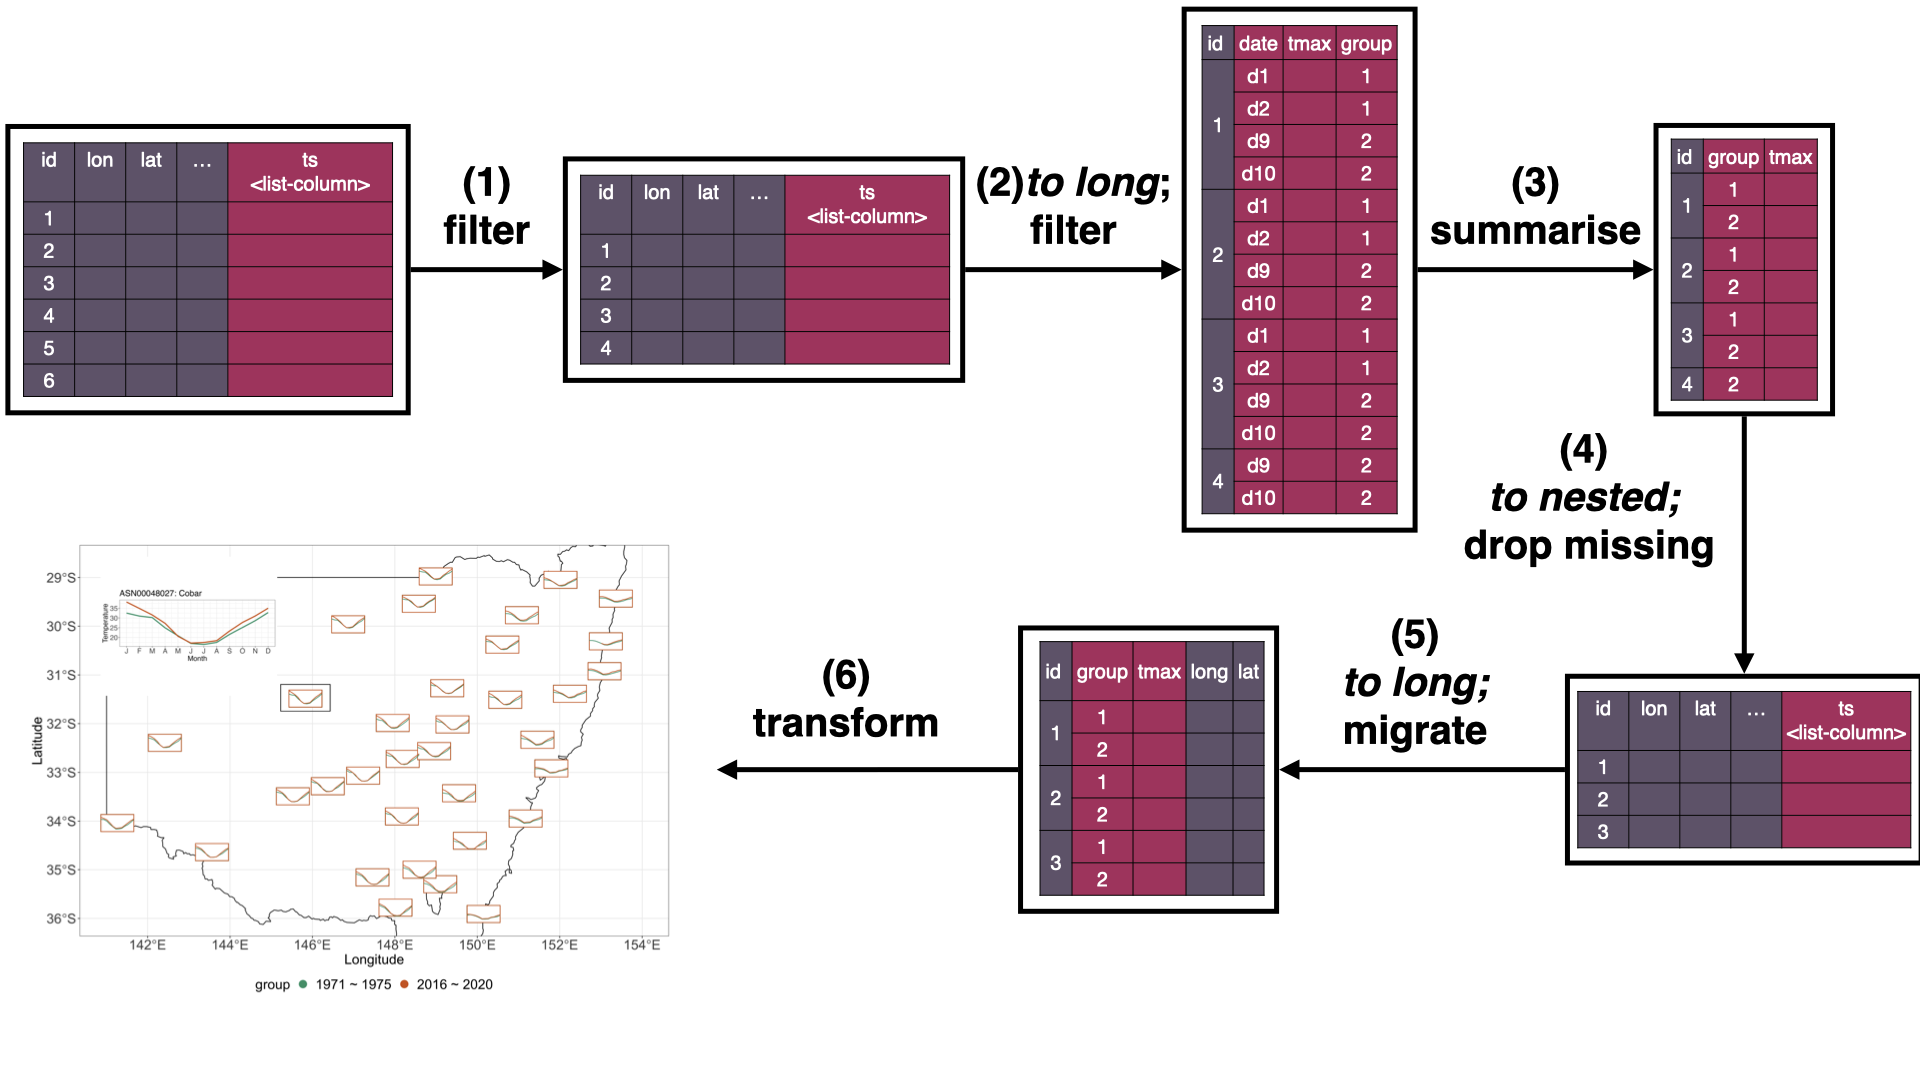
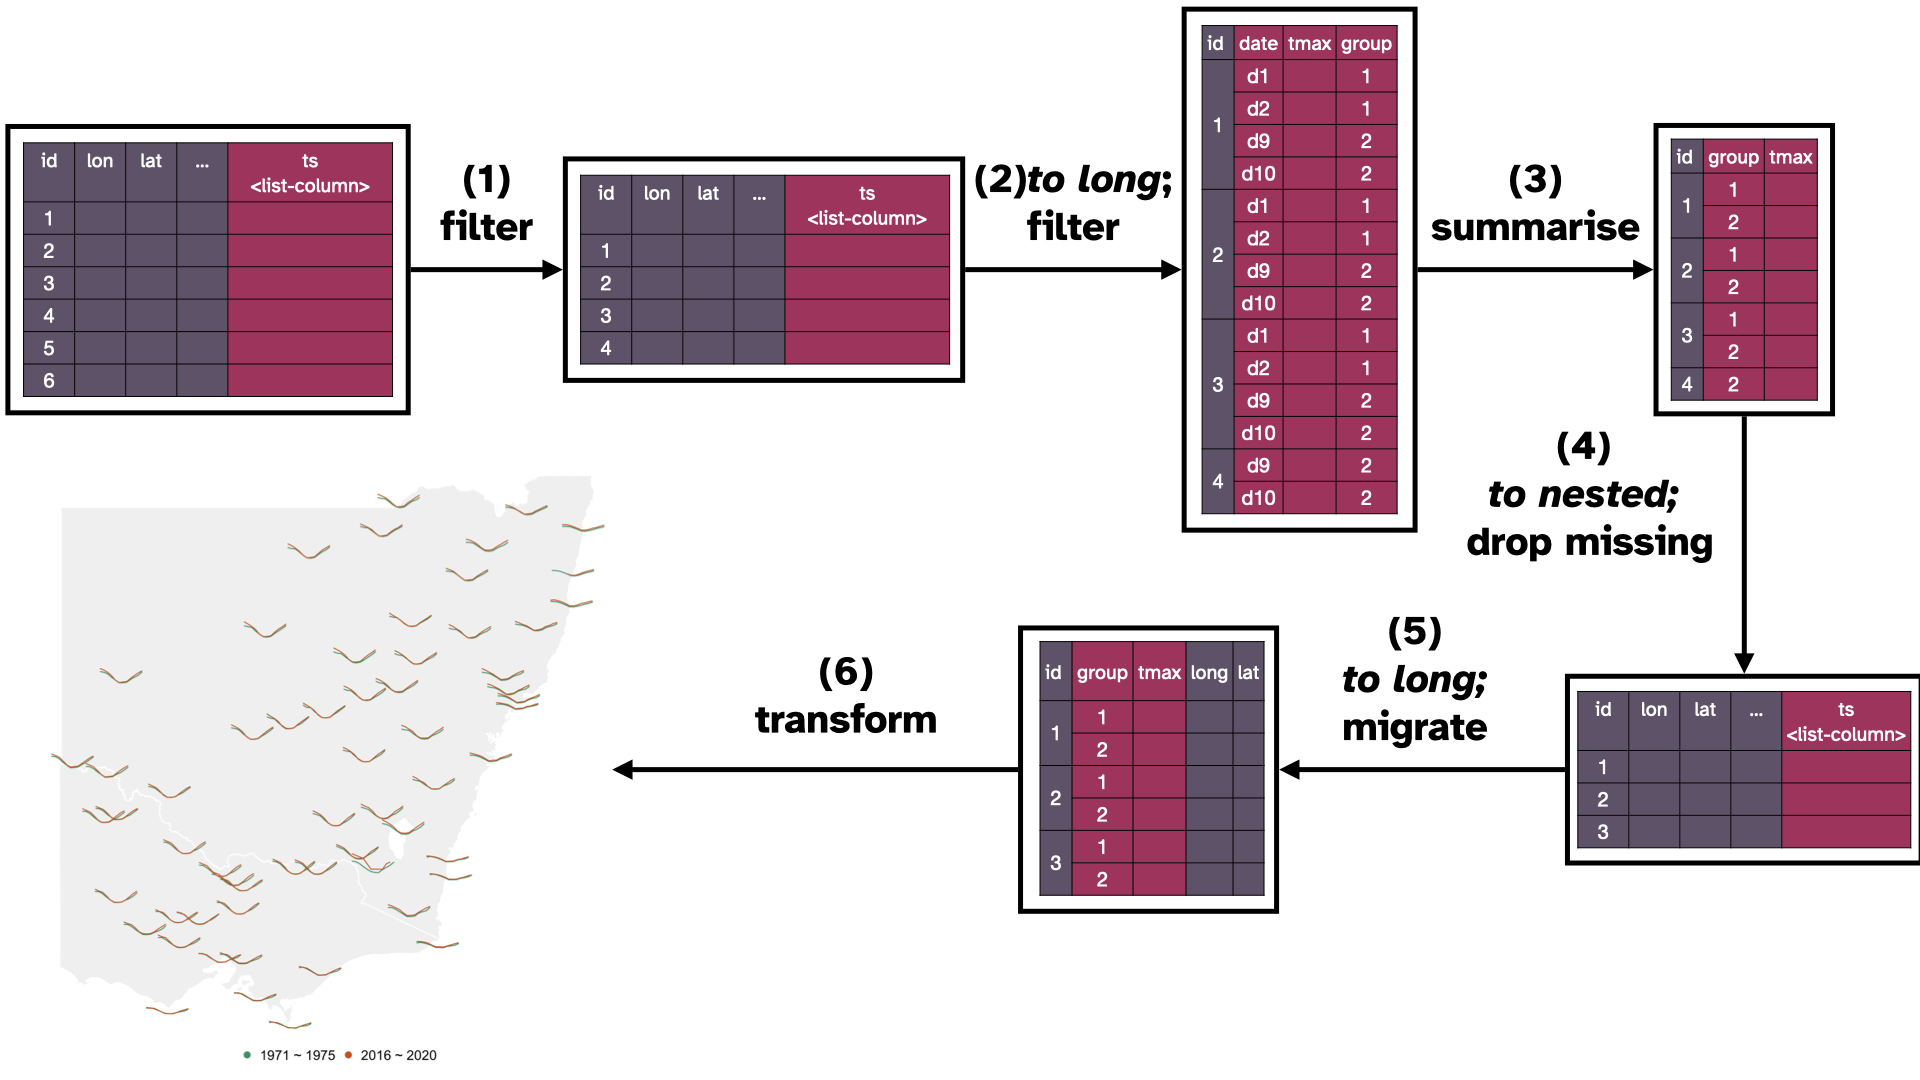
more updates on the glyph map and examples

diff --git a/index.html b/index.html
@@ -58,14 +58,15 @@ Dimension:     XY
 Bounding box:  xmin: 141.2652 ymin: -39.1297 xmax: 153.3633 ymax: -28.9786
 Geodetic CRS:  GDA94
 # A tibble: 59 × 7
-  id           long   lat  elev name                     wmo_id            geometry
-* &lt;chr&gt;       &lt;dbl&gt; &lt;dbl&gt; &lt;dbl&gt; &lt;chr&gt;                     &lt;dbl&gt;         &lt;POINT [°]&gt;
-1 ASN00047016  141. -34.0    43 lake victoria storage     94692 (141.2652 -34.0398)
-2 ASN00047019  142. -32.4    61 menindee post office      94694 (142.4173 -32.3937)
-3 ASN00048015  147. -30.0   115 brewarrina hospital       95512 (146.8651 -29.9614)
-4 ASN00048027  146. -31.5   260 cobar mo                  94711  (145.8294 -31.484)
-5 ASN00048031  149. -29.5   145 collarenebri (albert st)  95520 (148.5818 -29.5407)
-# … with 54 more rows
+  id           long   lat  elev name        wmo_id
+* &lt;chr&gt;       &lt;dbl&gt; &lt;dbl&gt; &lt;dbl&gt; &lt;chr&gt;        &lt;dbl&gt;
+1 ASN00047016  141. -34.0    43 lake victo…  94692
+2 ASN00047019  142. -32.4    61 menindee p…  94694
+3 ASN00048015  147. -30.0   115 brewarrina…  95512
+4 ASN00048027  146. -31.5   260 cobar mo     94711
+5 ASN00048031  149. -29.5   145 collareneb…  95520
+# … with 54 more rows, and 1 more variable:
+#   geometry &lt;POINT [°]&gt;
 ```
 
 
@@ -496,53 +497,47 @@ Geodetic CRS:  GDA94
 
 ???
 
-* In summary, with cubble, you can perform temporal analysis in the long form, and pivot to the nested form for some spatial analysis, and pivot back to the the long form for some other temporal analysis. 
+* Here is a comparison of the syntax using cubble and tidyverse dplyr for the same analysis
 
-* Sometimes, you may also need to do some analysis that involves both spatial and temporal variables. 
+* With cubble, you can do some spatial analysis in the nested form, pivot ot the long form for some temporal analysis, and back to the nested form for some additional steps on spatial. 
 
-* Here I will show you how to do that in cubble with an example of making glyph maps.
+* Without cubble, sometimes, you may need to extract some interesting stations after the spatial analysis and you will need to do some filter steps on your temporal data to keep both sheets updated. 
 
----
-# Transform a dot into a glyph
+* You will need to do this similar manual spatial update 
 
-&lt;img src="figures/glyph-steps1.png" width="3255" style="display: block; margin: auto;" /&gt;
-
----
-# Transform a dot into a glyph
-
-&lt;img src="figures/glyph-steps2.png" width="3255" style="display: block; margin: auto;" /&gt;
+* while with cubble, once the data is subsetted in one form, it will automatically update in the other form. Also with cubble, all the operations can be piped into the next step with no intermediate objects floating around the workspace. 
 
 ---
 # Transform a dot into a glyph
 
-
-&lt;img src="figures/glyph-steps3.png" width="3255" style="display: block; margin: auto;" /&gt;
-
----
-# Transform a dot into a glyph
-
-&lt;img src="figures/glyph-steps4.png" width="3255" height="100%" style="display: block; margin: auto;" /&gt;
-
+&lt;img src="figures/glyph-steps1.png" width="3905" style="display: block; margin: auto;" /&gt;
 
 ???
 
+* Some spatio-temporal analysis may involve both types of variables at the same time. 
+
+* An example of this is making glyph maps.
+
+* Here I'm going to show you how to transform a dot on the map into a glyph before giving out the full example
+
 * A glyph map is a transformation of temporal variables into space. 
-* Here I have 5 locations, each has a time series. 
 
-* A glyph map transforms the scale of the time series into the spatial map, so that temporal information can be visualised in a map
+* Here I have a weather station on the map and its maximum temperature on each day in January 2020
 
-* To create a glyph map, you will need information on the spatial coordinates, longitude and latitude, which we call the major axes, and the temporal coordinates, date and value, the minor axes.
+---
+# Transform a dot into a glyph
+
+&lt;img src="figures/glyph-steps2.png" width="3905" style="display: block; margin: auto;" /&gt;
+
+???
+
+* A glyph map transforms the coordinates in the time series plot into the spatial coordinates, so that temporal information can be visualised in a map
+
+* In a glyph map, the coordinates of the time series plot are called the minor coordinates and the spatial coordinates are called the major coordinates.
+
 ---
 
 # Transformation to glyphmap
-
-&lt;!-- (context of problem): compare seasonal temperature for two periods  --&gt;
-
-&lt;!-- drop missing --&gt;
-&lt;!-- migrate  --&gt;
-&lt;!-- transform --&gt;
-
-&lt;!-- What if you want to work with  both spatial or temporal variables? --&gt;
 
 .pull-left[
 &lt;img src="figures/unfold.png" width="500" height="500" style="display: block; margin: auto;" /&gt;
@@ -557,7 +552,7 @@ Geodetic CRS:  GDA94
 
 
 
-&lt;code class ='r hljs remark-code'&gt;cb_migrated &lt;- weather_long %&gt;% unfold(long, lat)&lt;br&gt;cb_migrated&lt;/code&gt;
+&lt;code class ='r hljs remark-code'&gt;cb_glyph &lt;- weather_long %&gt;% unfold(long, lat)&lt;br&gt;cb_glyph&lt;/code&gt;
 
 ```
 
@@ -576,35 +571,43 @@ Geodetic CRS:  GDA94
 #   geometry &lt;POINT [°]&gt;
 
 ```
+
+
+```r
+cb_glyph %&gt;% 
+  ggplot(aes(x_major = long, y_major = lat, 
+             x_minor = date, y_minor = tmax)) + 
+  geom_glyph()
+```
+
 ]
 
 ???
 
-* In a cubble, the major coordinates are stored in the nested form, while minor coordinates are stored in the long form.  
+* All the four coordinate variables need to be in the same table to plot with ggplot2
 
 * In cubble you can use the verb `unfold()` to relocate spatial variables into the long form. 
 
-* This is in essence a join operation 
+* Here I have the diagram illustration, cube transformation, and the code to show this function.
 
-* On the right shows an example of unfold long and lat with the weather data.
+* After this step, the data can be piped into the ggplot with `geom_glyph()`, also from the cubble package, to draw the glyph map. 
+
 
 ---
 
 # Example: Australian temperature
 
-&lt;img src="figures/temperature-workflow.png" width="2560" style="display: block; margin: auto;" /&gt;
-
-
+&lt;img src="figures/temperature-workflow.png" width="90%" height="530" style="display: block; margin: auto;" /&gt;
 
 ???
 
-* Now combine everything I have just introduced, here is an example of using cubble to analyse historical temperature
+* Now here is an full example that combines everything I have just introduced, to analyse historical temperature data with cubble. 
 
-* The data used for this example has a similar structure as before has a long period that dated back to the 70s, so we can compare how the maximum temperature looks like in the past and nowadays
+* All the stations I have shown you have maximum temperature dated back to the 70s, so we can compare the maximum temperature in the past and nowadays, also across space.
 
 * The diagram here shows how different steps in the data analysis can be chained together with cubble 
 
-* Start with all Australia data, we can first filter out the NSW stations in the space, and then stretch to the long form to filter on the two time periods
+* Start with a created cubble, we can first filter out the NSW stations in the space, and then pivot to the long form to filter for the two time periods
 
 * Then with the long form, the maximum temperature is summarised into monthly average
 
@@ -615,7 +618,7 @@ Geodetic CRS:  GDA94
 * And lastly the glyphmap transformation gives you a map.
 
 ---
-
+# Example: Australian temperature
 
 .pull-left-larger[
 
@@ -624,7 +627,7 @@ Geodetic CRS:  GDA94
 
 
 
-&lt;code class ='r hljs remark-code'&gt;tmax &lt;- DATA %&gt;% &lt;br&gt;&amp;nbsp;&amp;nbsp;&lt;span style='background-color:#888090'&gt;{{filter NSW &amp; VIC stations}}&lt;/span&gt; %&gt;% &lt;br&gt;&amp;nbsp;&amp;nbsp;&lt;span style='background-color:#FFEECF'&gt;face_temporal()&lt;/span&gt; %&gt;% &lt;br&gt;&amp;nbsp;&amp;nbsp;&lt;span style='background-color:#BE7893'&gt;{{group by month and period (71-75, 16-20)}}&lt;/span&gt; %&gt;% &lt;br&gt;&amp;nbsp;&amp;nbsp;&lt;span style='background-color:#BE7893'&gt;{{summarise into monthly average}}&lt;/span&gt; %&gt;% &lt;br&gt;&amp;nbsp;&amp;nbsp;&lt;span style='background-color:#FFEECF'&gt;face_spatial()&lt;/span&gt; %&gt;% &lt;br&gt;&amp;nbsp;&amp;nbsp;&lt;span style='background-color:#888090'&gt;{{filter groups have no historical record}} &lt;/span&gt;%&gt;% &lt;br&gt;&amp;nbsp;&amp;nbsp;&lt;span style='background-color:#FFEECF'&gt;face_temporal()&lt;/span&gt; %&gt;% &lt;br&gt;&amp;nbsp;&amp;nbsp;&lt;span style='background-color:#FFEECF'&gt;unfold(long, lat)&lt;/span&gt;&lt;br&gt;&lt;br&gt;tmax %&gt;% &lt;br&gt;&amp;nbsp;&amp;nbsp;ggplot(aes(x_minor = lubridate::month(date), &lt;br&gt;&amp;nbsp;&amp;nbsp;&amp;nbsp;&amp;nbsp;&amp;nbsp;&amp;nbsp;&amp;nbsp;&amp;nbsp;&amp;nbsp;&amp;nbsp;&amp;nbsp;&amp;nbsp;&amp;nbsp;y_minor = tmax, &lt;br&gt;&amp;nbsp;&amp;nbsp;&amp;nbsp;&amp;nbsp;&amp;nbsp;&amp;nbsp;&amp;nbsp;&amp;nbsp;&amp;nbsp;&amp;nbsp;&amp;nbsp;&amp;nbsp;&amp;nbsp;x_major = long, &lt;br&gt;&amp;nbsp;&amp;nbsp;&amp;nbsp;&amp;nbsp;&amp;nbsp;&amp;nbsp;&amp;nbsp;&amp;nbsp;&amp;nbsp;&amp;nbsp;&amp;nbsp;&amp;nbsp;&amp;nbsp;y_major = lat)) + &lt;br&gt;&amp;nbsp;&amp;nbsp;&lt;span style='background-color:#FFEECF'&gt;geom_glyph&lt;/span&gt;() + &lt;br&gt;&amp;nbsp;&amp;nbsp;...&lt;/code&gt;
+&lt;code class ='r hljs remark-code'&gt;tmax &lt;- DATA %&gt;% &lt;br&gt;&amp;nbsp;&amp;nbsp;&lt;span style='background-color:#888090'&gt;{{filter NSW &amp; VIC stations}}&lt;/span&gt; %&gt;% &lt;br&gt;&amp;nbsp;&amp;nbsp;&lt;span style='background-color:#FFEECF'&gt;face_temporal()&lt;/span&gt; %&gt;% &lt;br&gt;&amp;nbsp;&amp;nbsp;&lt;span style='background-color:#BE7893'&gt;{{group by month and period (71-75, 16-20)}}&lt;/span&gt; %&gt;% &lt;br&gt;&amp;nbsp;&amp;nbsp;&lt;span style='background-color:#BE7893'&gt;{{summarise into monthly average}}&lt;/span&gt; %&gt;% &lt;br&gt;&amp;nbsp;&amp;nbsp;&lt;span style='background-color:#FFEECF'&gt;face_spatial()&lt;/span&gt; %&gt;% &lt;br&gt;&amp;nbsp;&amp;nbsp;&lt;span style='background-color:#888090'&gt;{{filter groups have no historical record}} &lt;/span&gt;%&gt;% &lt;br&gt;&amp;nbsp;&amp;nbsp;&lt;span style='background-color:#FFEECF'&gt;face_temporal()&lt;/span&gt; %&gt;% &lt;br&gt;&amp;nbsp;&amp;nbsp;&lt;span style='background-color:#FFEECF'&gt;unfold(long, lat)&lt;/span&gt;&lt;br&gt;&lt;br&gt;tmax %&gt;% &lt;br&gt;&amp;nbsp;&amp;nbsp;ggplot(aes(x_minor = month, y_minor = tmax, &lt;br&gt;&amp;nbsp;&amp;nbsp;&amp;nbsp;&amp;nbsp;&amp;nbsp;&amp;nbsp;&amp;nbsp;&amp;nbsp;&amp;nbsp;&amp;nbsp;&amp;nbsp;&amp;nbsp;&amp;nbsp;x_major = long, y_major = lat)) + &lt;br&gt;&amp;nbsp;&amp;nbsp;&lt;span style='background-color:#FFEECF'&gt;geom_glyph&lt;/span&gt;() + &lt;br&gt;&amp;nbsp;&amp;nbsp;...&lt;/code&gt;
 
 ]
 
@@ -632,7 +635,7 @@ Geodetic CRS:  GDA94
 
 
 
-&lt;img src="index_files/figure-html/unnamed-chunk-32-1.png" width="504" style="display: block; margin: auto;" /&gt;
+&lt;img src="index_files/figure-html/unnamed-chunk-31-1.png" width="504" style="display: block; margin: auto;" /&gt;
 
 
 ]
@@ -646,10 +649,6 @@ Geodetic CRS:  GDA94
 * In each glyph, I plot the averaged maximum temperature for September to February for the two periods
 
 * One information I read from this plot is in the past, the average maximum temperature from December to February are almost the same, while these days, January stands out to be hotter for the inland stations
-
-* Use the normal dplyr syntax to work with two tables, you will need to repeat the filter step two times, one on each table. But with cubble, once a filter on the nested form, it will also update the data in the long form. 
-
-* With dplyr syntax, there will be multiple intermediate objects created during the analysis, as we have seen before in the code comparison, but here, we can pipe through all the steps with only one object created. 
 
 
 
